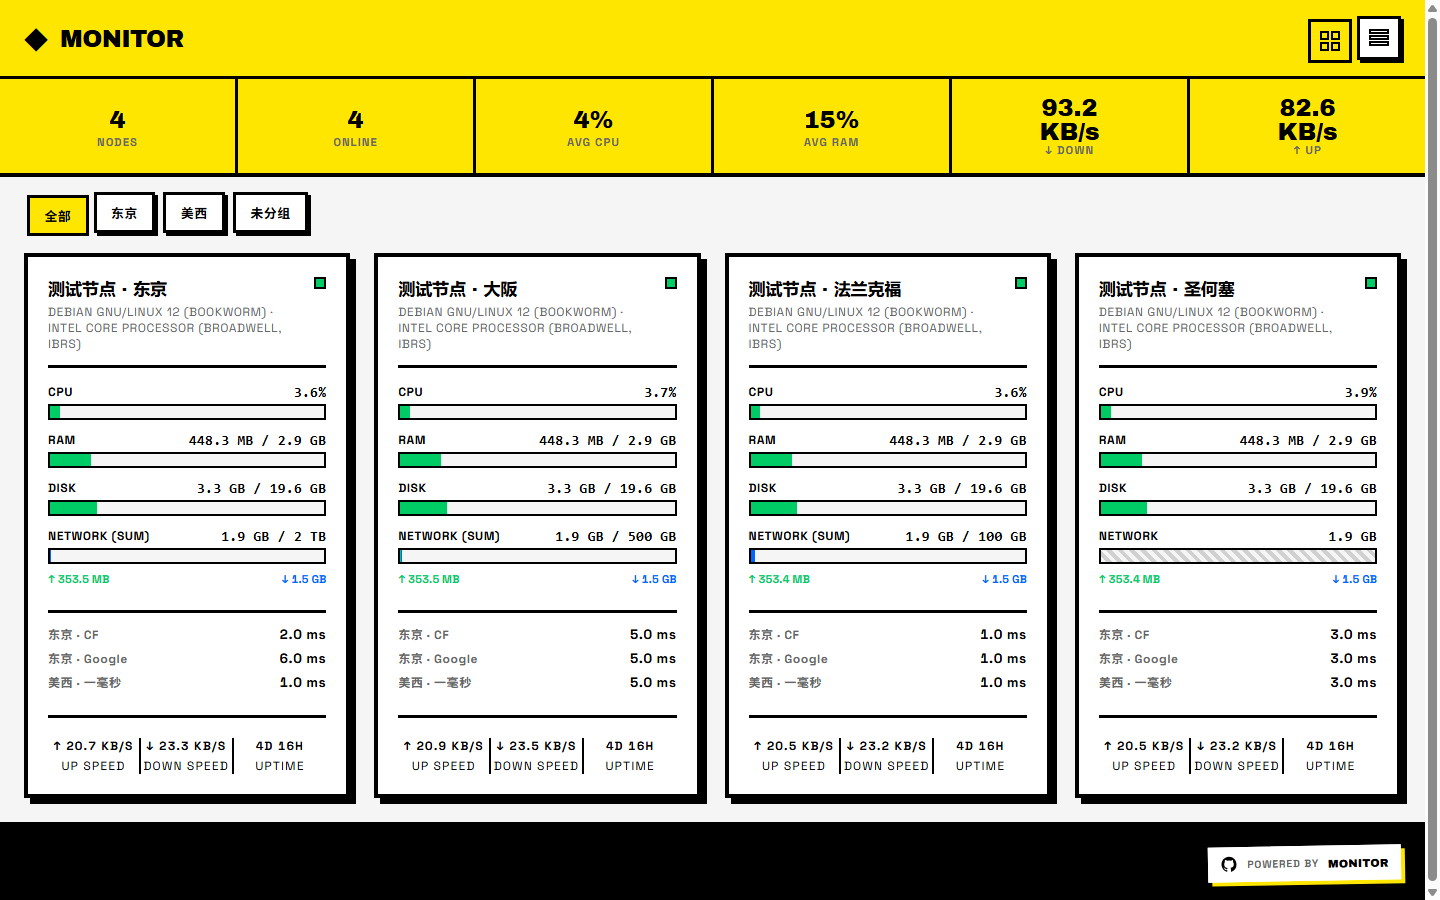
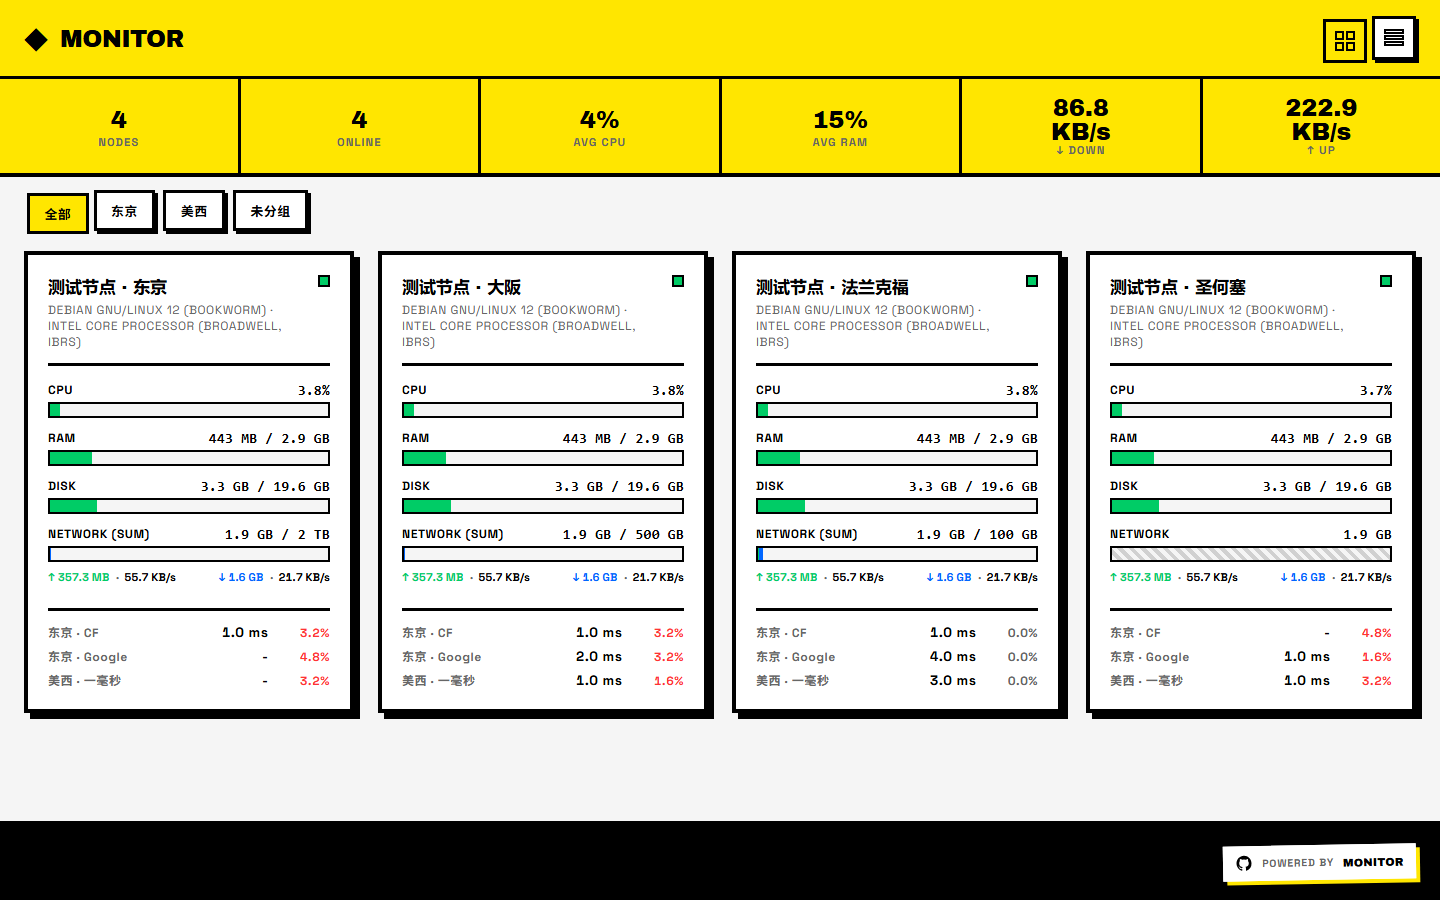
卡片布局重构：速度并入 NETWORK 区、去掉底栏，底部改为三网延迟 + 丢包率
按用户要求重排骨架（不再是纯 CSS 微调）：

- 上行/下行速率从卡片底栏搬进 NETWORK (SUM) 区的那一行，跟在流量合计后面
  （↑ 357.3 MB · 55.7 KB/s……↓ 1.6 GB · 21.7 KB/s）；合计沿用上游绿/蓝语义，
  速率用黑色等宽数字，中间的分隔点用 .net-rate::before 生成。
- 去掉卡片底栏（.node-footer / UP SPEED / DOWN SPEED / UPTIME）整个 DOM。
  运行时间不再上卡片；showUptime 现在只作用于列表视图行尾的 .row-uptime
  （实测：设 false 后列表行 4 个 .row-uptime 全部 display:none，卡片不受影响）。
- 卡片底部改为三网延迟 + 丢包率：每行 线路名 | 最新延迟 | 丢包率，后两列固定
  宽度右对齐成两列；丢包率与弹窗同一口径（0.0% 常显，>0 走 .has-loss 变红）。

两个必须记住的约束（已写进注释与护栏）：
- scrambleTextIfChanged 更新时直接改 textContent，所以合计与速率必须是各自
  独立的叶子元素（嵌套的 <b> 会在第一次轮询时被抹掉）。
- 底栏没了以后延迟块就是卡片末尾，applyCardPings 直接用 appendChild。

护栏 check-adapt.mjs 从 3 条扩到 8 条：新增 NETWORK 区的结构/顺序断言、
「底栏标记不该再出现」、以及 .node-ping-value 与上游 .metric-value 字号必须一致的比对。
四条新护栏都故意破坏验过会报错，恢复后通过。

实测核对（KuromiX3 测试 hub）：延迟逐条与 Hub 原始数据一致（1/2/1 ms），
丢包率与同一时刻 /api/nodes/{id}/metrics 的 loss 完全对上（3.2258→3.2%、1.6129→1.6%）；
卡片数 4、底栏元素 0、控制台 0 报错。

diff --git a/src/script.js b/src/script.js
@@ -296,10 +296,10 @@
       document.body.classList.add('card-style-double');
     }
 
-    // 移植差异：上游只隐藏卡片视图底部的 .node-footer，列表视图的运行时间格
-    // （.row-uptime）不受该设置影响。两种视图共用同一项站点设置，这里一并收进来，
-    // 否则「默认列表视图 + 关闭运行时间」时设置看起来没生效。
-    document.querySelectorAll('.node-footer, .row-uptime').forEach(el => {
+    // 移植差异：上游只为卡片底部的 .node-footer 提供开关，列表视图每行末尾的运行时间格
+    // （.row-uptime）不受影响。卡片那栏已拆掉（速度并入 NETWORK 区、运行时间不再上卡片），
+    // 所以这个设置现在只管列表视图，一并收进来是为了「默认列表视图 + 关闭运行时间」时也生效。
+    document.querySelectorAll('.row-uptime').forEach(el => {
       el.style.display = showUptime ? '' : 'none';
     });
   }
@@ -462,11 +462,11 @@
     const netTypeLabel = getTrafficLimitLabel(node.traffic_limit_type || 'max');
     const { upPct, downPct, upDim, downDim, upHide, downHide, upLeft, downLeft, upZIndex, downZIndex } = getNetBarWidths(node);
     
-    // speed logic
-    const downSpeedText = isOnline ? `↓ ${formatNetworkSpeed(node.net_in || 0)}` : '↓ -';
-    const upSpeedText = isOnline ? `↑ ${formatNetworkSpeed(node.net_out || 0)}` : '↑ -';
-    
-    const uptimeText = isOnline ? formatUptime(node.uptime) : '-';
+    // 速度：移植差异——上行/下行速度不放卡片底部那一栏了，改成跟在 NETWORK 合计同一行，
+    // 所以这里只留数字（箭头已经在合计里），与列表视图 .row-speed-value 的写法一致。
+    const downSpeedText = isOnline ? formatNetworkSpeed(node.net_in || 0) : '-';
+    const upSpeedText = isOnline ? formatNetworkSpeed(node.net_out || 0) : '-';
+
     const upTotalText = `↑ ${formatBytes(node.net_total_up || 0)}`;
     const downTotalText = `↓ ${formatBytes(node.net_total_down || 0)}`;
 
@@ -526,23 +526,11 @@
             `}
           </div>
           <div class="net-totals">
-            <span class="net-total-item" data-prev="${upTotalText}">${upTotalText}</span>
-            <span class="net-total-item" data-prev="${downTotalText}">${downTotalText}</span>
+            <span class="net-total-item net-total-up" data-prev="${upTotalText}">${upTotalText}</span>
+            <span class="net-rate" data-prev="${upSpeedText}">${upSpeedText}</span>
+            <span class="net-total-item net-total-down" data-prev="${downTotalText}">${downTotalText}</span>
+            <span class="net-rate" data-prev="${downSpeedText}">${downSpeedText}</span>
           </div>
-        </div>
-      </div>
-      <div class="node-footer">
-        <div class="footer-stat">
-          <span data-prev="${upSpeedText}">${upSpeedText}</span>
-          UP SPEED
-        </div>
-        <div class="footer-stat">
-          <span data-prev="${downSpeedText}">${downSpeedText}</span>
-          DOWN SPEED
-        </div>
-        <div class="footer-stat">
-          <span data-prev="${uptimeText}">${uptimeText}</span>
-          UPTIME
         </div>
       </div>
     `;
@@ -649,17 +637,12 @@
       scrambleTextIfChanged(netTotals[1], `↓ ${formatBytes(node.net_total_down || 0)}`);
     }
 
-    const netUp = existingCard.querySelector('.footer-stat:nth-child(1) span');
-    const netDown = existingCard.querySelector('.footer-stat:nth-child(2) span');
-    const uptime = existingCard.querySelector('.footer-stat:nth-child(3) span');
-    
-    const newDownSpeedText = isOnline ? `↓ ${formatNetworkSpeed(node.net_in || 0)}` : '↓ -';
-    const newUpSpeedText = isOnline ? `↑ ${formatNetworkSpeed(node.net_out || 0)}` : '↑ -';
-    const newUptimeText = isOnline ? formatUptime(node.uptime) : '-';
-
-    if (netUp) scrambleTextIfChanged(netUp, newUpSpeedText);
-    if (netDown) scrambleTextIfChanged(netDown, newDownSpeedText);
-    if (uptime) scrambleTextIfChanged(uptime, newUptimeText);
+    // 上行/下行速度现在跟在 NETWORK 合计同一行（order 与卡片模板一致：先上后下）
+    const netRates = existingCard.querySelectorAll('.net-rate');
+    if (netRates.length === 2) {
+      scrambleTextIfChanged(netRates[0], isOnline ? formatNetworkSpeed(node.net_out || 0) : '-');
+      scrambleTextIfChanged(netRates[1], isOnline ? formatNetworkSpeed(node.net_in || 0) : '-');
+    }
   }
 
   function createNodeListItem(node) {
@@ -1552,6 +1535,8 @@
   }
 
   // 缓存里的行 → 卡片上的延迟块。一行都没有时返回 null：宁可不插，也不留一个空框。
+  // 卡片底部那一块：每条探测线路一行 —— 线路名 | 最新延迟 | 丢包率。
+  // 三列都靠自己的类名定位，右侧两列固定宽度，所以数字在竖直方向成两列。
   function buildCardPingBlock(uuid) {
     const cached = state.cardPing.get(uuid);
     if (!cached || !cached.rows.length) return null;
@@ -1568,14 +1553,23 @@
       const value = document.createElement('span');
       value.className = 'node-ping-value';
       value.textContent = formatPing(row.latest);
+      const loss = document.createElement('span');
+      loss.className = 'node-ping-loss';
+      const lossValue = Number.isFinite(row.loss) ? row.loss : 0;
+      // 有丢包才上色（复用弹窗 .latency-task-loss.has-loss 同一套语义）
+      if (lossValue > 0) loss.classList.add('has-loss');
+      loss.textContent = `${lossValue.toFixed(1)}%`;
+      loss.title = '丢包率';
       item.appendChild(name);
       item.appendChild(value);
+      item.appendChild(loss);
       block.appendChild(item);
     });
     return block;
   }
 
   // 把缓存里的延迟块贴回卡片：render() 会重建卡片，这里负责复原；站点关掉该设置时负责摘掉。
+  // 位置：卡片内容末尾（原来的底栏已拆掉，这块就是卡片底部那一段）。
   function applyCardPings() {
     state.cardPing.forEach((_, uuid) => {
       if (!state.nodes.has(uuid)) state.cardPing.delete(uuid);
@@ -1584,7 +1578,7 @@
       const existing = card.querySelector('.node-ping');
       if (existing) existing.remove();
       const block = cardPingEnabled() ? buildCardPingBlock(card.dataset.uuid) : null;
-      if (block) card.insertBefore(block, card.querySelector('.node-footer'));
+      if (block) card.appendChild(block);
     });
   }
 

diff --git a/src/adapt.css b/src/adapt.css
@@ -147,12 +147,14 @@ h1, h2, h3, h4, h5, h6,
 
 /* --------------------------------------------------------------------------
    移植差异：卡片上的三网延迟（站点设置 showNodePing，逻辑见 script.js 的 applyCardPings）
-   位置在指标区与底部栏之间。排版上刻意与卡片自己的语言对齐（实测过尺寸）：
+   位置：卡片内容末尾，NETWORK 区之后（原来的底部栏已拆掉，这一块就是卡片底部那一段）。
+   排版上刻意与卡片自己的语言对齐（实测过尺寸）：
      · 延迟值用 .metric-value 的 0.85rem，右列数字才和上面的 CPU/内存/磁盘成一条竖线
        （原来照抄 0.75rem，比指标值小一号，同一列里数字突然变矮）；
-     · 分割线 3px，与 .node-header 的下边线、.node-footer 的上边线同粗（原为 2px，
-       两条线挨着时粗细不一很显眼）；
-     · 上下留白 1.5rem / 1.5rem，与底栏上方的节奏相同（原来上 1rem、下 1.5rem 不均）。
+     · 分割线 3px，与 .node-header 的下边线同粗（原为 2px，两条线挨着时粗细不一很显眼）；
+     · 上留白 1.5rem 对齐卡片里其它分区的节奏；下留白由卡片自身的 padding 给。
+   三列：线路名（可省略号）| 最新延迟 | 丢包率。后两列固定宽度 + 右对齐，数字在竖直方向成两列；
+   丢包率与弹窗「延迟监控」同一口径（0.0% 常显，有丢包才变红，复用 .has-loss 语义）。
    卡片整体可点（打开节点详情），这里不单独挂点击——点上去还是同一个动作，
    详情弹窗里的「延迟监控」就是它的放大版。
    -------------------------------------------------------------------------- */
@@ -168,7 +170,8 @@ h1, h2, h3, h4, h5, h6,
 .node-ping-row {
   display: flex;
   align-items: baseline;
-  justify-content: space-between;
+  /* 不用 space-between：三列各自定位，右两列靠固定宽度对齐成两条竖线 */
+  justify-content: flex-start;
   gap: 0.75rem;
   font-size: 0.75rem;
   font-weight: 700;
@@ -176,6 +179,7 @@ h1, h2, h3, h4, h5, h6,
 }
 
 .node-ping-name {
+  flex: 1 1 auto;
   min-width: 0;
   color: var(--text-muted);
   overflow: hidden;
@@ -185,10 +189,61 @@ h1, h2, h3, h4, h5, h6,
 
 .node-ping-value {
   flex: none;
+  min-width: 4.2rem;
+  text-align: right;
   font-family: 'Space Grotesk', 'SF Mono', 'Consolas', 'Monaco', monospace;
   font-variant-numeric: tabular-nums;
   font-size: 0.85rem;   /* 与 .metric-value 同号，右列数字对齐 */
   color: var(--black);
+}
+
+.node-ping-loss {
+  flex: none;
+  min-width: 3.1rem;
+  text-align: right;
+  font-family: 'Space Grotesk', 'SF Mono', 'Consolas', 'Monaco', monospace;
+  font-variant-numeric: tabular-nums;
+  font-size: 0.75rem;
+  color: var(--text-muted);
+}
+
+.node-ping-loss.has-loss {
+  color: var(--accent-red);
+}
+
+/* --------------------------------------------------------------------------
+   移植差异：上行/下行速度并入 NETWORK 区（原来在卡片底部那一栏，已拆掉）。
+   结构：合计(↑) · 速率 …… 合计(↓) · 速率 —— 左一组、右一组，用 margin-left:auto 分组。
+   合计与速率是各自独立的元素（不是嵌套），因为轮询更新走 scrambleTextIfChanged，
+   它会直接改 textContent —— 嵌在里面的 <b> 会在第一次刷新时被抹掉；
+   同理「·」分隔符只能用 ::before，不能写进 HTML。
+   颜色：合计沿用上游的绿/蓝语义；速率用黑色，让随轮询跳动的数字更醒目。
+   -------------------------------------------------------------------------- */
+.net-totals {
+  align-items: baseline;
+  justify-content: flex-start;
+  gap: 0.45rem;
+}
+
+.net-total-item.net-total-up {
+  color: var(--accent-green);
+}
+
+.net-total-item.net-total-down {
+  margin-left: auto;
+  color: var(--accent-blue);
+}
+
+.net-rate {
+  font-family: 'Space Grotesk', 'SF Mono', 'Consolas', 'Monaco', monospace;
+  font-variant-numeric: tabular-nums;
+  color: var(--black);
+}
+
+.net-rate::before {
+  content: '·';
+  margin-right: 0.35rem;
+  color: var(--text-muted);
 }
 
 /* 标题下那行「系统 · CPU 型号」在窄卡片里会折成两行，上游的行高是 normal（约 1.15），

diff --git a/README.md b/README.md
@@ -10,8 +10,8 @@
 - **新粗野主义视觉**：粗边框、硬阴影、像素化的加载动画，强调色可选（黄 / 红 / 蓝 / 绿 / 紫）。
 - **卡片 / 列表双视图**：访客的视图偏好记在本机，站点可在后台设置默认视图。
 - **分组**：Hub 后台给节点设了分组后，首页顶部出现分组标签（全部 / 组名 / 未分组），点一下只看该组。列表视图按分组分段显示；卡片视图在后台二选一——只保留顶栏标签（默认）或「标签 + 分段标题」。节点都没设分组时整块不出现。原版只把 Hub 的 `group` 字段读进状态、没有呈现，这一项是移植版新增的。
-- **卡片三网延迟**：节点卡片上按探测线路列出最新延迟（最多 3 条，线路名取自 Hub 后台的探测任务名），点开卡片就能看同一批线路的完整曲线与丢包。站点可在后台关掉（`showNodePing`）。
-- **节点卡片**：CPU、内存、磁盘、流量四条进度条，上行 / 下行速率与运行时间；流量条按 Hub 的计费周期口径与 `sum` / `max` / `up` / `down` 模式绘制，未设流量上限时画成斜纹。
+- **卡片三网延迟 + 丢包率**：节点卡片底部按探测线路列出最新延迟与丢包率（最多 3 条，线路名取自 Hub 后台的探测任务名），丢包率与详情弹窗同一口径；点开卡片就能看同一批线路的完整曲线与统计。站点可在后台关掉（`showNodePing`）。
+- **节点卡片**：CPU、内存、磁盘、流量四条进度条；流量条下那一行是「上行合计 · 上行速率」与「下行合计 · 下行速率」。流量条按 Hub 的计费周期口径与 `sum` / `max` / `up` / `down` 模式绘制，未设流量上限时画成斜纹。运行时间不在卡片上（列表视图的行尾仍有，可在后台关掉）。
 - **节点详情**：硬件 / 系统 / 存储 / 网络 四块信息（CPU 型号与核心数、架构、虚拟化、系统、内核、运行时间、最近上报、内存 / 交换 / 磁盘用量、双向速率与累计流量、TCP/UDP 连接数）。
 - **历史曲线**：CPU、内存、磁盘、网络四张图，窗口 1H / 6H / 24H / 3D / 7D（登录后的管理员多一个 30D）。
 - **延迟区块**：按探测线路列出最新延迟、丢包率、MIN / AVG / MAX / P50 / P99，并画出延迟曲线。
@@ -21,7 +21,8 @@
 ## 与原版的差异
 
 - **新增分组**（见上）：补上筛选标签，列表视图按分组分段，卡片视图的分段标题由站点设置 `cardGroupView` 决定（默认 `tabs` 只留标签）。访客的筛选只作用于本次浏览，不写本机存储、也不改站点设置。
-- **新增卡片三网延迟**（见上）：上游主题只在详情弹窗里画延迟，卡片上没有。数据与详情弹窗同一个来源（`series=ping`），每张卡片 60 秒取一次、页面不可见时不取，站点可关。原版没有这块内容。
+- **新增卡片三网延迟 + 丢包率**（见上）：上游主题只在详情弹窗里画延迟，卡片上没有。数据与详情弹窗同一个来源（`series=ping`），每张卡片 60 秒取一次、页面不可见时不取，站点可关。原版没有这块内容。
+- **卡片底部那一栏拆掉了**（见上）：原版卡片最下面是一栏「UP SPEED / DOWN SPEED / UPTIME」三格。移植版把上行 / 下行速率并进 NETWORK 区（合计后跟速率，`↑ 1.6 GB · 21.7 KB/s`），运行时间不再上卡片（列表视图行尾仍有，`showUptime` 现在只管那里），空出来的底部给三网延迟 + 丢包率。上游那一栏的标记（`.node-footer` / `.footer-stat`）因此不再出现在卡片里。
 - 数据改由极简探针的 REST / WebSocket 提供，不需要 Komari 服务器；站点信息与主题配置读 `/api/me` 与 `/api/themes/1999/config`。
 - 移除原版有、极简探针不提供的部分：登录弹窗与 OAuth（登录在 `/admin`）、GPU 型号、进程数与连接数的历史曲线，以及匿名访客拿不到的 30 天历史窗口。
 - 字体与 ECharts 改为包内本地资源（原版走 Google Fonts / jsDelivr，中国大陆不可达）。
